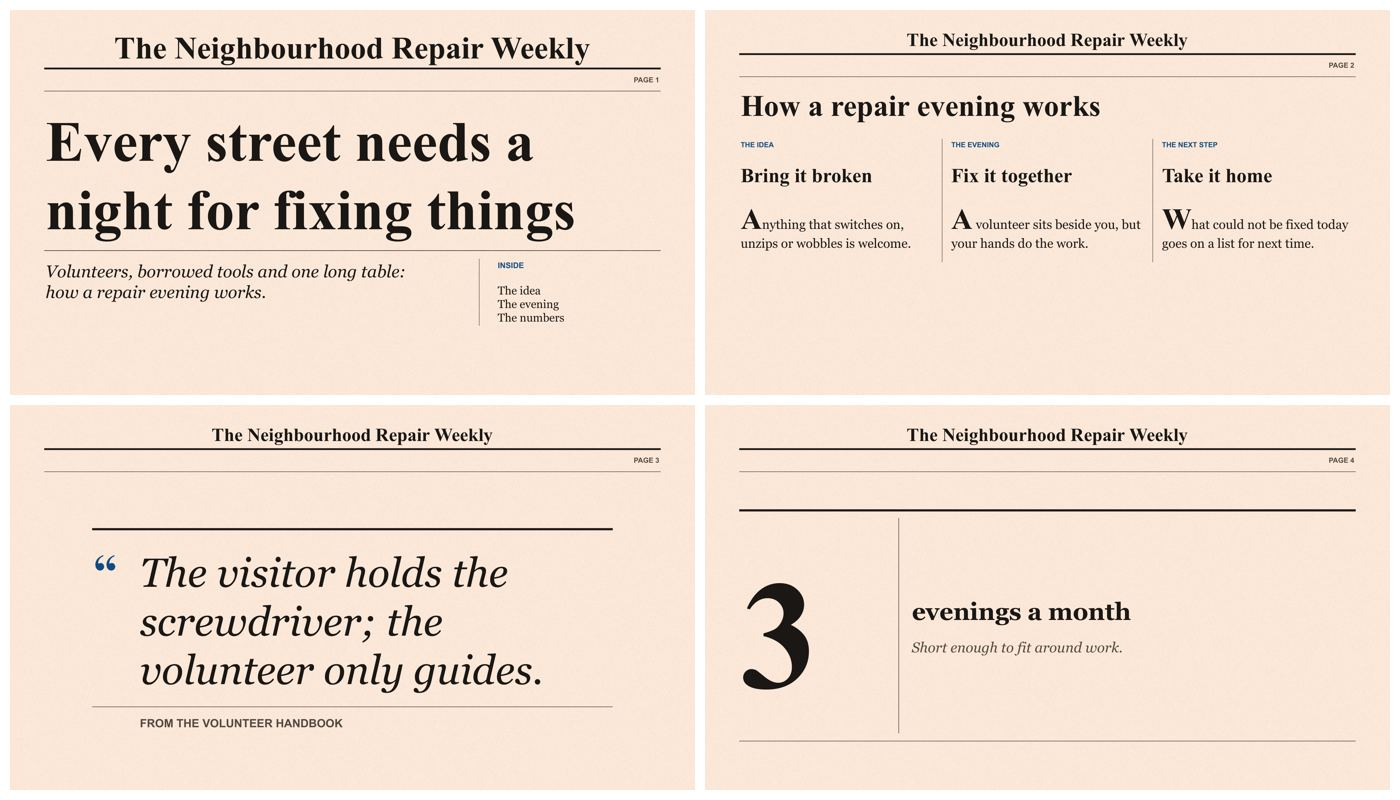
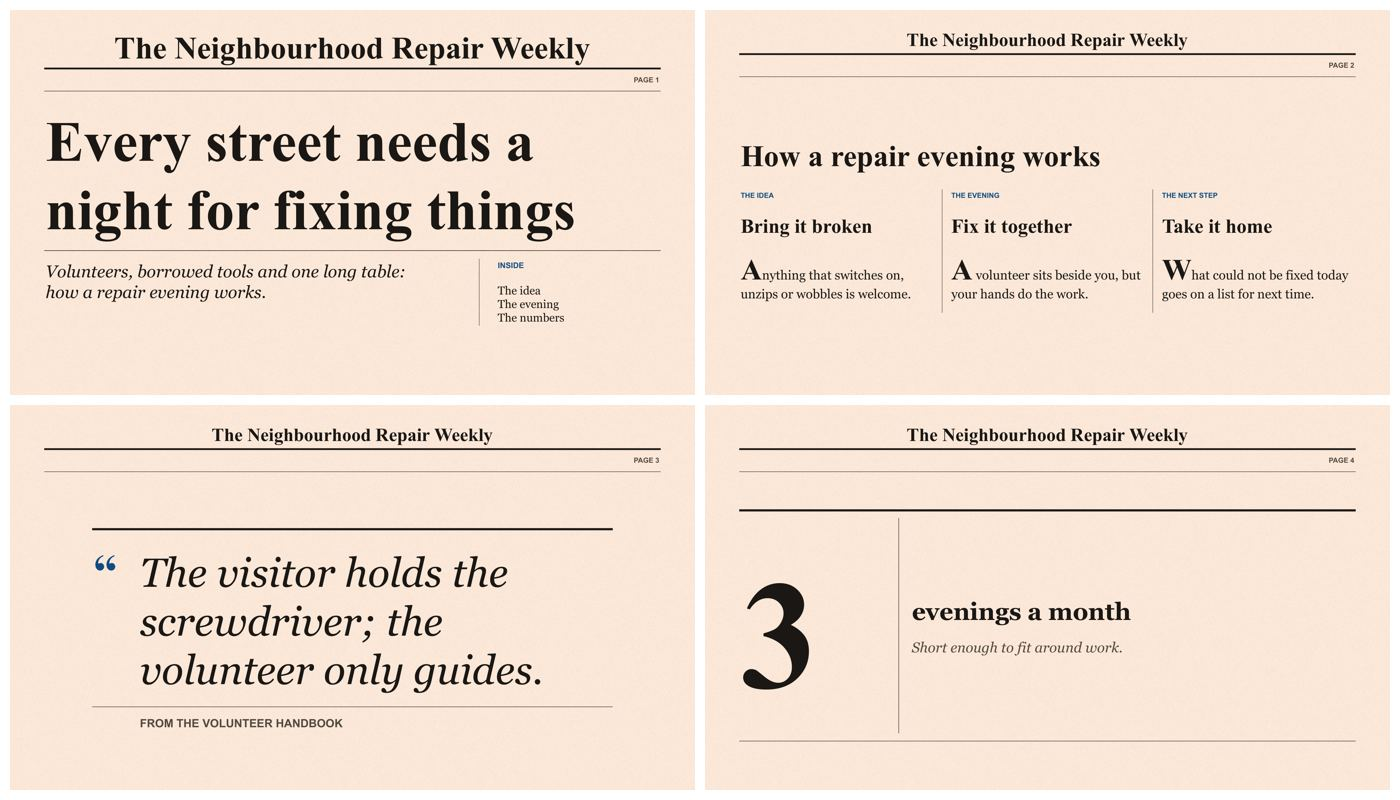
broadsheet points: no initial on one-line bodies; short copy sits at the optical centre
Seen on the library page's demo (2026-10-17): three one-line bodies each opened on a
raised initial ('S ay what is broken') and the head with its columns filled the top half,
leaving 40% of the page empty under them.
- an initial opens a paragraph: it goes on only when EVERY Latin body on the page sets on
  two lines or more (one wrapped body among one-liners got an initial alone)
- on a landscape page, columns that leave more than 12% of the page empty are re-planned
  45% of that space lower (head and columns together); columns that fill the page stay
- the broadsheet sample sheets re-rendered (manifest fingerprints updated; hues unchanged)

Changed region(s): [[0.5221, 0.125, 0.7986, 0.375], [0.8293, 0.1562, 0.9521, 0.375]]

diff --git a/skills/slide-maker/scripts/vl_native2.py b/skills/slide-maker/scripts/vl_native2.py
@@ -871,47 +871,67 @@ def _bs_closing(k, slide, f, image):
 def _bs_points(k, slide, f, image):
     """Newspaper columns: each point a column — the caller's tag over its head over its body, rules between; a Latin
     body opens on a raised initial when its column has room for the taller first line (and the one line the initial's
-    width may push down); where it has not, the body is set plain — the words never move for an ornament. Portrait
-    stacks the columns as rows; long copy gives the title more room."""
+    width may push down) and the body runs to two lines or more — on a one-line body an initial reads as a typo; where
+    it has not, the body is set plain — the words never move for an ornament. Short copy on a landscape page moves the
+    head and its columns to the optical centre instead of filling the top half. Portrait stacks the columns as rows;
+    long copy gives the title more room."""
     W, H, s, o = ctx(k)
     top = bs_strip(k, slide, f)
     pts = points_of(f.get("items"))
     n = len(pts)
     tags = tags_of(f, n, "broadsheet")
-    r, d = flow(k, slide, "points", (0.05 * W, top + 0.05 * s, 0.90 * W, (0.20 if alt() == 0 else 0.34) * H),
-                fields(f, ("kicker", "title"), ("kicker",)),
-                start={"title": 42 * s})                  # an inside page's head; the 80pt headline is the cover's
-    rects, draws, art = dict(r), [d], []
-    ctop = max((v[1] + v[3] for v in r.values()), default=top) + 0.30 * s
     bottom = H - 0.6
     gap = 0.30 * s
-    if o == "land":                                   # columns across the page
-        cw = (0.90 * W - (n - 1) * gap) / n
-        boxes = [(0.05 * W + i * (cw + gap), ctop, cw, bottom - ctop) for i in range(n)]
-        rules = [(b[0] - gap / 2, ctop, b[0] - gap / 2, bottom) for b in boxes[1:]]
-    elif alt() == 1 and n >= 3:                       # a square or portrait page with long copy: two columns of rows
-        cw, rows = (0.90 * W - gap) / 2, -(-n // 2)
-        rh = (bottom - ctop - (rows - 1) * 0.15 * s) / rows
-        boxes = [(0.05 * W + (i % 2) * (cw + gap), ctop + (i // 2) * (rh + 0.15 * s), cw, rh) for i in range(n)]
-        rules = [(0.05 * W + cw + gap / 2, ctop, 0.05 * W + cw + gap / 2, bottom)] + \
-                [(0.05 * W, ctop + r_ * (rh + 0.15 * s) - 0.08 * s, 0.95 * W, ctop + r_ * (rh + 0.15 * s) - 0.08 * s)
-                 for r_ in range(1, rows)]
-    else:                                             # portrait: the columns stacked as rows
-        slot = (bottom - ctop) / n
-        boxes = [(0.05 * W, ctop + i * slot, 0.90 * W, slot - 0.15 * s) for i in range(n)]
-        rules = [(0.05 * W, b[1] - 0.08 * s, 0.95 * W, b[1] - 0.08 * s) for b in boxes[1:]]
-    specs = [((x, y, w, h), ([("tag", caps(tags[i]))] if tags else []) + [("item_head", hd)] + ([("item_line", ln)] if ln else []),
-              {"anchor": "top"}) for i, ((hd, ln), (x, y, w, h)) in enumerate(zip(pts, boxes))]
-    foot = ctop                           # the lowest word of any column (a raised initial's taller first line included)
-    for (hd, ln), (x, y, w, h), (tr, td_) in zip(pts, boxes, plan_together(k, slide, "points", specs)):
-        initial = bool(ln) and ln[0].isalpha() and not dk._has_cjk(ln[0]) and "item_line" in tr
-        if initial:                       # room in the column for the taller first line and the one line its width
-            bx, by, bw, bh = tr["item_line"]  # may push down (lint measures a declared initial so: deckkit._ink_rect)
-            pitch = td_.sizes["item_line"] * dk._LINT_LINE_H / 72.0
-            initial = by + bh + 1.3 * pitch + pitch + 0.05 <= y + h
-        draws.append(_with_initial(k, slide, td_, ln) if initial else td_)
-        foot = max([foot] + [v[1] + v[3] + (max_extra(td_.sizes["item_line"] / s, s) if initial and f_ == "item_line" else 0.0)
-                             for f_, v in tr.items()])
+
+    def lay(dy):
+        """Plan the head and the columns with the block moved dy down; draws nothing."""
+        r, d = flow(k, slide, "points", (0.05 * W, top + 0.05 * s + dy, 0.90 * W, (0.20 if alt() == 0 else 0.34) * H),
+                    fields(f, ("kicker", "title"), ("kicker",)),
+                    start={"title": 42 * s})              # an inside page's head; the 80pt headline is the cover's
+        ctop = max((v[1] + v[3] for v in r.values()), default=top + dy) + 0.30 * s
+        if o == "land":                                   # columns across the page
+            cw = (0.90 * W - (n - 1) * gap) / n
+            boxes = [(0.05 * W + i * (cw + gap), ctop, cw, bottom - ctop) for i in range(n)]
+            rules = [(b[0] - gap / 2, ctop, b[0] - gap / 2, bottom) for b in boxes[1:]]
+        elif alt() == 1 and n >= 3:                       # a square or portrait page with long copy: two columns of rows
+            cw, rows = (0.90 * W - gap) / 2, -(-n // 2)
+            rh = (bottom - ctop - (rows - 1) * 0.15 * s) / rows
+            boxes = [(0.05 * W + (i % 2) * (cw + gap), ctop + (i // 2) * (rh + 0.15 * s), cw, rh) for i in range(n)]
+            rules = [(0.05 * W + cw + gap / 2, ctop, 0.05 * W + cw + gap / 2, bottom)] + \
+                    [(0.05 * W, ctop + r_ * (rh + 0.15 * s) - 0.08 * s, 0.95 * W, ctop + r_ * (rh + 0.15 * s) - 0.08 * s)
+                     for r_ in range(1, rows)]
+        else:                                             # portrait: the columns stacked as rows
+            slot = (bottom - ctop) / n
+            boxes = [(0.05 * W, ctop + i * slot, 0.90 * W, slot - 0.15 * s) for i in range(n)]
+            rules = [(0.05 * W, b[1] - 0.08 * s, 0.95 * W, b[1] - 0.08 * s) for b in boxes[1:]]
+        specs = [((x, y, w, h), ([("tag", caps(tags[i]))] if tags else []) + [("item_head", hd)] +
+                  ([("item_line", ln)] if ln else []), {"anchor": "top"})
+                 for i, ((hd, ln), (x, y, w, h)) in enumerate(zip(pts, boxes))]
+        planned = plan_together(k, slide, "points", specs)
+        latin = [(ln, tr, td_) for (hd, ln), (tr, td_) in zip(pts, planned)
+                 if ln and ln[0].isalpha() and not dk._has_cjk(ln[0]) and "item_line" in tr]
+        # an initial opens a PARAGRAPH: on a one-line body it reads as a typo ("S ay what is broken", the library
+        # page's demo, 2026-10-22) — and the stories on one page open the same way, so initials go on only when EVERY
+        # Latin body sets on two lines or more (one wrapped neighbour among one-liners got one alone)
+        paragraphs = bool(latin) and all(len(vl._break_lines(k, "item_line", ln, td_.sizes["item_line"], tr["item_line"][2]))
+                                         >= 2 for ln, tr, td_ in latin)
+        cols, foot = [], ctop             # the lowest word of any column (a raised initial's taller first line included)
+        for (hd, ln), (x, y, w, h), (tr, td_) in zip(pts, boxes, planned):
+            initial = paragraphs and bool(ln) and ln[0].isalpha() and not dk._has_cjk(ln[0]) and "item_line" in tr
+            if initial:                   # room in the column for the taller first line and the one line its width
+                bx, by, bw, bh = tr["item_line"]  # may push down (lint measures a declared initial so: deckkit._ink_rect)
+                pitch = td_.sizes["item_line"] * dk._LINT_LINE_H / 72.0
+                initial = by + bh + 1.3 * pitch + pitch + 0.05 <= y + h
+            cols.append(_with_initial(k, slide, td_, ln) if initial else td_)
+            foot = max([foot] + [v[1] + v[3] + (max_extra(td_.sizes["item_line"] / s, s) if initial and f_ == "item_line"
+                                                else 0.0) for f_, v in tr.items()])
+        return r, d, rules, cols, foot
+
+    r, d, rules, cols, foot = lay(0.0)
+    free = bottom - foot
+    if o == "land" and free > 0.12 * H:   # short copy filled only the top half (40% empty under it on the demo):
+        r, d, rules, cols, foot = lay(0.45 * free)        # the head and its columns move to the optical centre
+    rects, draws, art = dict(r), [d] + cols, []
     # a column rule ends 0.2in under the lowest words, reaching long copy and not dangling 2.5in under short copy
     # (the page's own bottom is the limit); a rule between rows runs the page's width and stays where it is
     for x0, y0, x1, y1 in rules:

diff --git a/skills/slide-maker/tests/test_native_languages_p4.py b/skills/slide-maker/tests/test_native_languages_p4.py
@@ -333,18 +333,55 @@ for W, H in ((10.0, 7.5), (7.5, 7.5)):
     with contextlib.redirect_stdout(io.StringIO()):
         crit = [f_ for f_ in dk.lint_layout(prs, verbose=False) if f_[1] == "CRITICAL"]
     check(not crit, "broadsheet {}x{}: a long CJK masthead never runs into the headline: {}".format(W, H, crit[:2]))
-# columns: a raised initial opens a Latin body, none on CJK; rules between columns never cross words
+# columns: a raised initial opens a Latin body of two or more lines, none on CJK; rules between columns never cross words
 for W, H in ((13.333, 7.5), (10.0, 7.5), (7.5, 13.333)):
     prs, k = use("broadsheet", W, H)
     s = k.new_slide()
     k.points(s, title="How a repair evening works", tags=["The idea", "The evening", "Next"],
-             items=[("Bring it broken", "Anything that switches on is welcome."), ("Fix it together", "A volunteer sits beside you."),
-                    ("Take it home", "What could not be fixed goes on a list.")])
+             items=[("Bring it broken", "Anything that switches on, unzips, rattles or wobbles is welcome at the door, "
+                                        "and nobody is ever turned away."),
+                    ("Fix it together", "A volunteer sits beside you and explains each step, but your own hands do all "
+                                        "of the work."),
+                    ("Take it home", "What could not be fixed tonight goes on a list, and someone brings the right part "
+                                     "next month.")])
     firsts = [sh.text_frame.paragraphs[0].runs[0] for sh in texts(s) if txt_of(sh).startswith(("Anything", "A volunteer", "What"))]
     check(len(firsts) == 3 and all(len(r.text) == 1 and r.font.size.pt > 30 for r in firsts),
           "broadsheet {}x{}: each Latin column opens on a raised initial".format(W, H))
     hit = [g for g in segs_of(s) for sh in texts(s) if crosses(g, rect_of(sh))]
     check(not hit, "broadsheet {}x{}: no column rule crosses words".format(W, H))
+# short columns (the library page's demo copy, 2026-10-22): a ONE-line body is set plain — a raised initial on one line
+# reads as a typo ("S ay what is broken") — and the head with its columns sits balanced between the masthead strip
+# and the page foot instead of filling the top half and leaving 40% of the page empty under it
+SHORT = [("Sign in", "Say what is broken"), ("Sit down", "A volunteer joins you"), ("Fix it", "You hold the screwdriver")]
+LONG4 = [("Share the tools", "One drawer of screwdrivers feeds three tables."),
+         ("Open the door", "No booking, no fee, no questions about the object."),
+         ("Keep it walkable", "Ten minutes on foot is the limit we keep."),
+         ("Write every repair down", "A notebook per bench becomes next year's manual.")]
+
+
+def bs_gaps(W, H, items, title):
+    prs, k = use("broadsheet", W, H)
+    strip = v2.bs_strip(k, k.new_slide(), {})              # where the page's own strip ends (drawn on a spare slide)
+    s = k.new_slide()
+    k.points(s, kicker="Three steps", title=title, items=items)
+    head = min(sh.top for sh in texts(s) if sh.top >= 0 and txt_of(sh) in (title, "Three steps", "THREE STEPS")) / EMU
+    bodies = [sh for sh in texts(s) if txt_of(sh) in [b for _h, b in items]]
+    foot = max((sh.top + sh.height) / EMU for sh in texts(s) if sh.top >= 0)
+    return head - strip, (H - 0.6) - foot, bodies          # the head's top is its kicker's
+
+
+for W, H in ((13.333, 7.5), (10.0, 7.5)):
+    above, below, bodies = bs_gaps(W, H, SHORT, "How every repair begins")
+    check(len(bodies) == 3 and all(len(sh.text_frame.paragraphs[0].runs[0].text) > 1 for sh in bodies),
+          "broadsheet {}x{}: short bodies open plain, all of them alike ({})".format(
+              W, H, [sh.text_frame.paragraphs[0].runs[0].text for sh in bodies]))
+    check(below <= 0.25 * H and above >= 0.5,
+          "broadsheet {}x{}: short columns sit balanced on the page ({:.2f}in above the head, {:.2f}in under the "
+          "columns)".format(W, H, above, below))
+    check(above <= below + 0.2, "broadsheet {}x{}: the block sits at the optical centre, not low ({:.2f} above, "
+                                "{:.2f} below)".format(W, H, above, below))
+above, below, _b = bs_gaps(10.0, 7.5, LONG4, "Why every street deserves a place to fix what it owns")
+check(above <= 0.2, "broadsheet 10x7.5: columns that fill the page stay under the strip ({:.2f}in above)".format(above))
 prs, k = use("broadsheet")
 s = k.new_slide()
 k.points(s, title="修理之夜怎么进行", items=[("带着坏东西来", "能开机的都欢迎。"), ("一起动手修", "动手的是你。")])
